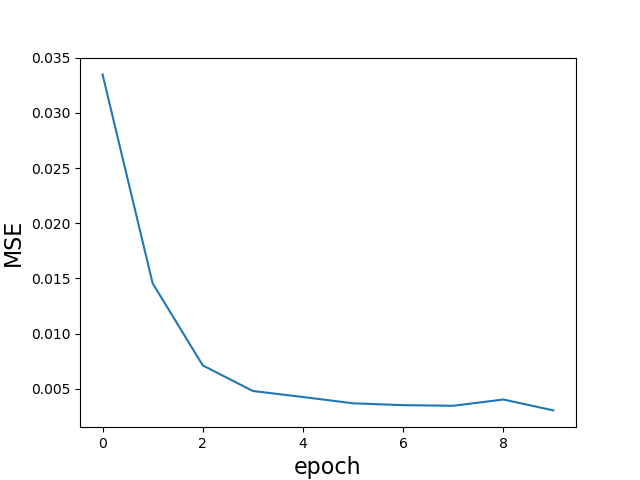
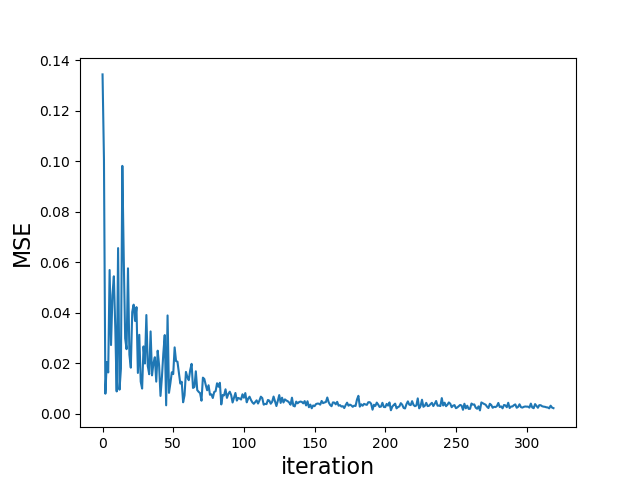
Modify the way of recording error(epoch->iter)

diff --git a/hw1-2/subtask2.py b/hw1-2/subtask2.py
@@ -17,25 +17,32 @@ import torch.utils.data
 mnist = tf.keras.datasets.mnist
 (x_train, y_train), (x_test, y_test) = mnist.load_data()
 x_train = np.reshape(x_train, (-1,784)) / 255
+x_test = np.reshape(x_test, (-1,784)) / 255
 
 simulate_func_x = np.reshape( np.array(list(range(0,1000))) / 100, (-1,1))
 simulate_func_y = np.sinc(simulate_func_x)
+
 
 
 batch = 32
 epoch = 10
 tensor_train_x = torch.Tensor(x_train)
 tensor_train_y = torch.LongTensor(y_train)
+tensor_test_x = torch.Tensor(x_test)
+tensor_test_y = torch.LongTensor(y_test)
 
 tensor_train_x2 = torch.Tensor(simulate_func_x)
 tensor_train_y2 = torch.Tensor(simulate_func_y)
 
+
 dataset = torch.utils.data.TensorDataset(tensor_train_x, tensor_train_y)
 dataset2 = torch.utils.data.TensorDataset(tensor_train_x2, tensor_train_y2)
 
+test_dataset = torch.utils.data.TensorDataset(tensor_test_x, tensor_test_y)
+
 dataloader = torch.utils.data.DataLoader(dataset = dataset, batch_size = batch, shuffle = True)
 dataloader2 = torch.utils.data.DataLoader(dataset = dataset2, batch_size = batch, shuffle = True)
-
+test_dataloader = torch.utils.data.DataLoader(dataset = test_dataset, batch_size = batch, shuffle = True)
 
 class myModule(torch.nn.Module):
     def __init__(self, input_dim, batch_size):
@@ -88,6 +95,8 @@ for epoch_num in range(epoch):
         grad_list.append(grad_norm)
         
         optimizer.zero_grad()
+        
+        loss_list.append(cross_entropy.item())
     acc /= (np.shape(x_train)[0] / batch)
     epoch_loss /= (np.shape(x_train)[0] / batch)
     #print("weight norm: ", model.layer1.weight.norm().item())
@@ -95,8 +104,8 @@ for epoch_num in range(epoch):
     
     print("accuracy: ", acc)
     print("loss: ", epoch_loss)
-    loss_list.append(epoch_loss)
-    acc_list.append(acc)
+    #loss_list.append(epoch_loss)
+    #acc_list.append(acc)
 
 #===========================================
 #simulate sinc function
@@ -132,10 +141,14 @@ for epoch_num in range(epoch):
         grad_norm = grad_all ** 0.5
         grad_list2.append(grad_norm)
         
+        
+        loss_list2.append(MSE.item())
+        
+        
         optimizer2.zero_grad()
     epoch_loss /= (np.shape(simulate_func_x)[0]//batch + 1)
     print("loss: ", epoch_loss)
-    loss_list2.append(epoch_loss)
+    #loss_list2.append(epoch_loss)
 #=============================================
 #plot-MNIST
 plt.plot(iter_num_list, grad_list)
@@ -143,15 +156,11 @@ plt.xlabel("iteration", fontsize=16)
 plt.ylabel("norm", fontsize=16)
 plt.show()
 
-plt.plot(epoch_num_list, loss_list)
-plt.xlabel("epoch", fontsize=16)
+plt.plot(iter_num_list, loss_list)
+plt.xlabel("iteration", fontsize=16)
 plt.ylabel("cross_entropy", fontsize=16)
 plt.show()
 
-plt.plot(epoch_num_list, acc_list)
-plt.xlabel("epoch", fontsize=16)
-plt.ylabel("acc", fontsize=16)
-plt.show()
 
 #plot-simulate a function
 plt.plot(iter_num_list2, grad_list2)
@@ -159,7 +168,7 @@ plt.xlabel("iteration", fontsize=16)
 plt.ylabel("norm", fontsize=16)
 plt.show()
 
-plt.plot(epoch_num_list, loss_list2)
-plt.xlabel("epoch", fontsize=16)
+plt.plot(iter_num_list2, loss_list2)
+plt.xlabel("iteration", fontsize=16)
 plt.ylabel("MSE", fontsize=16)
 plt.show()
